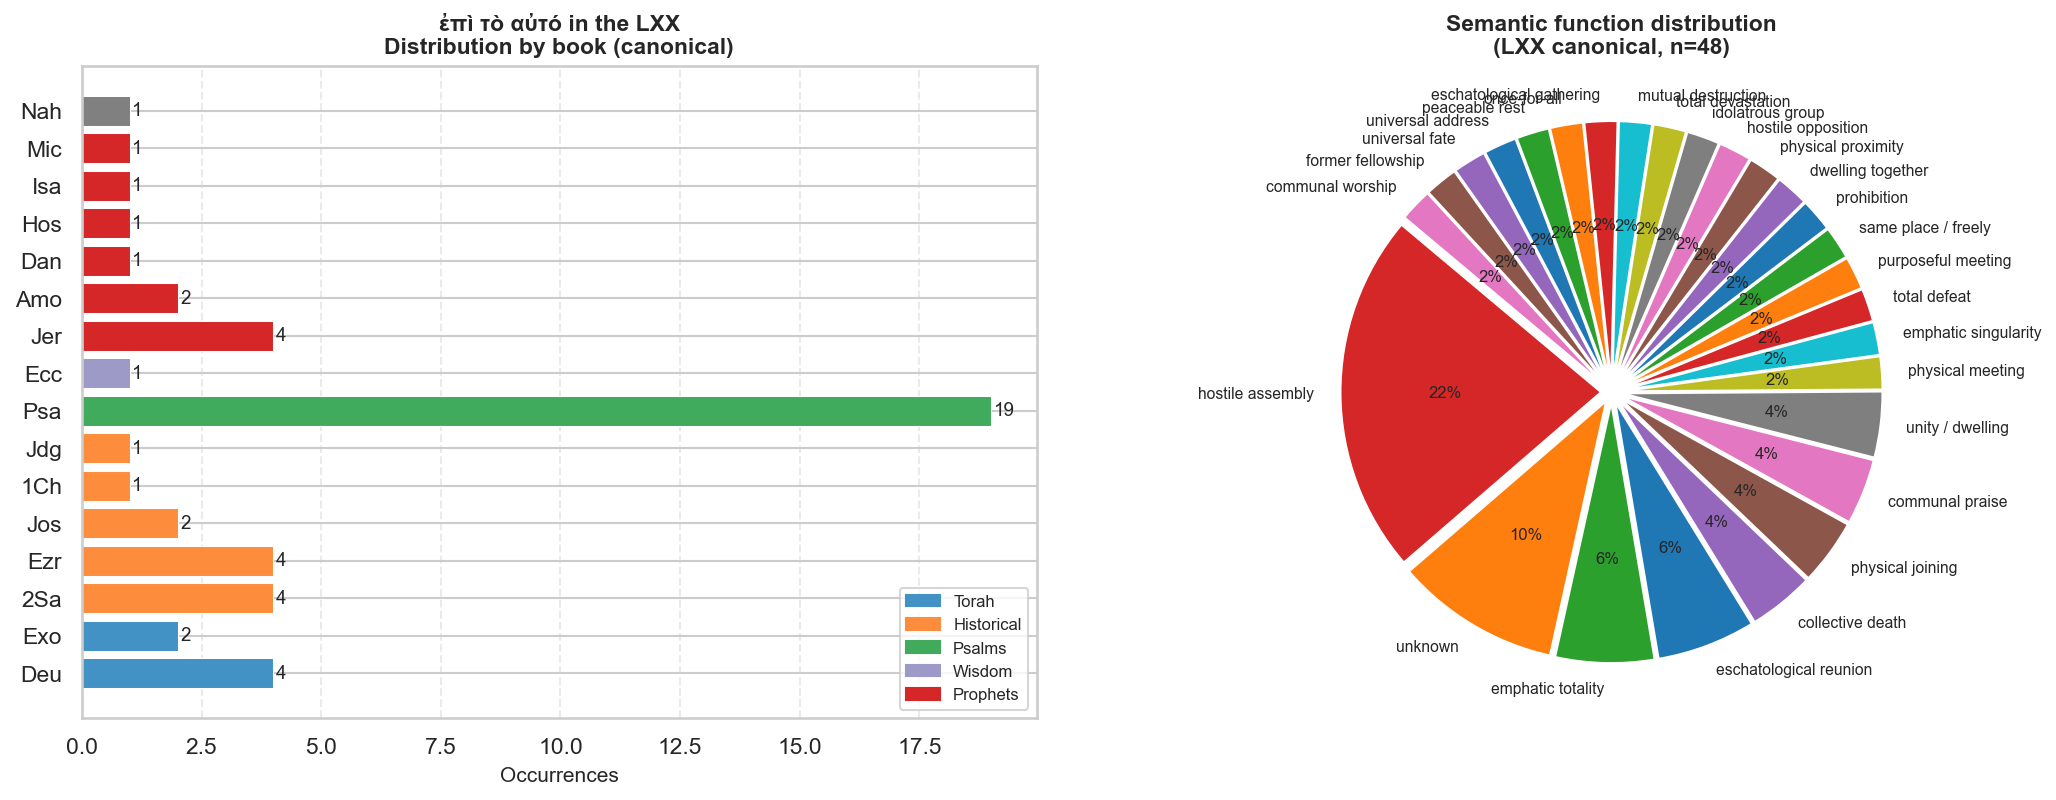
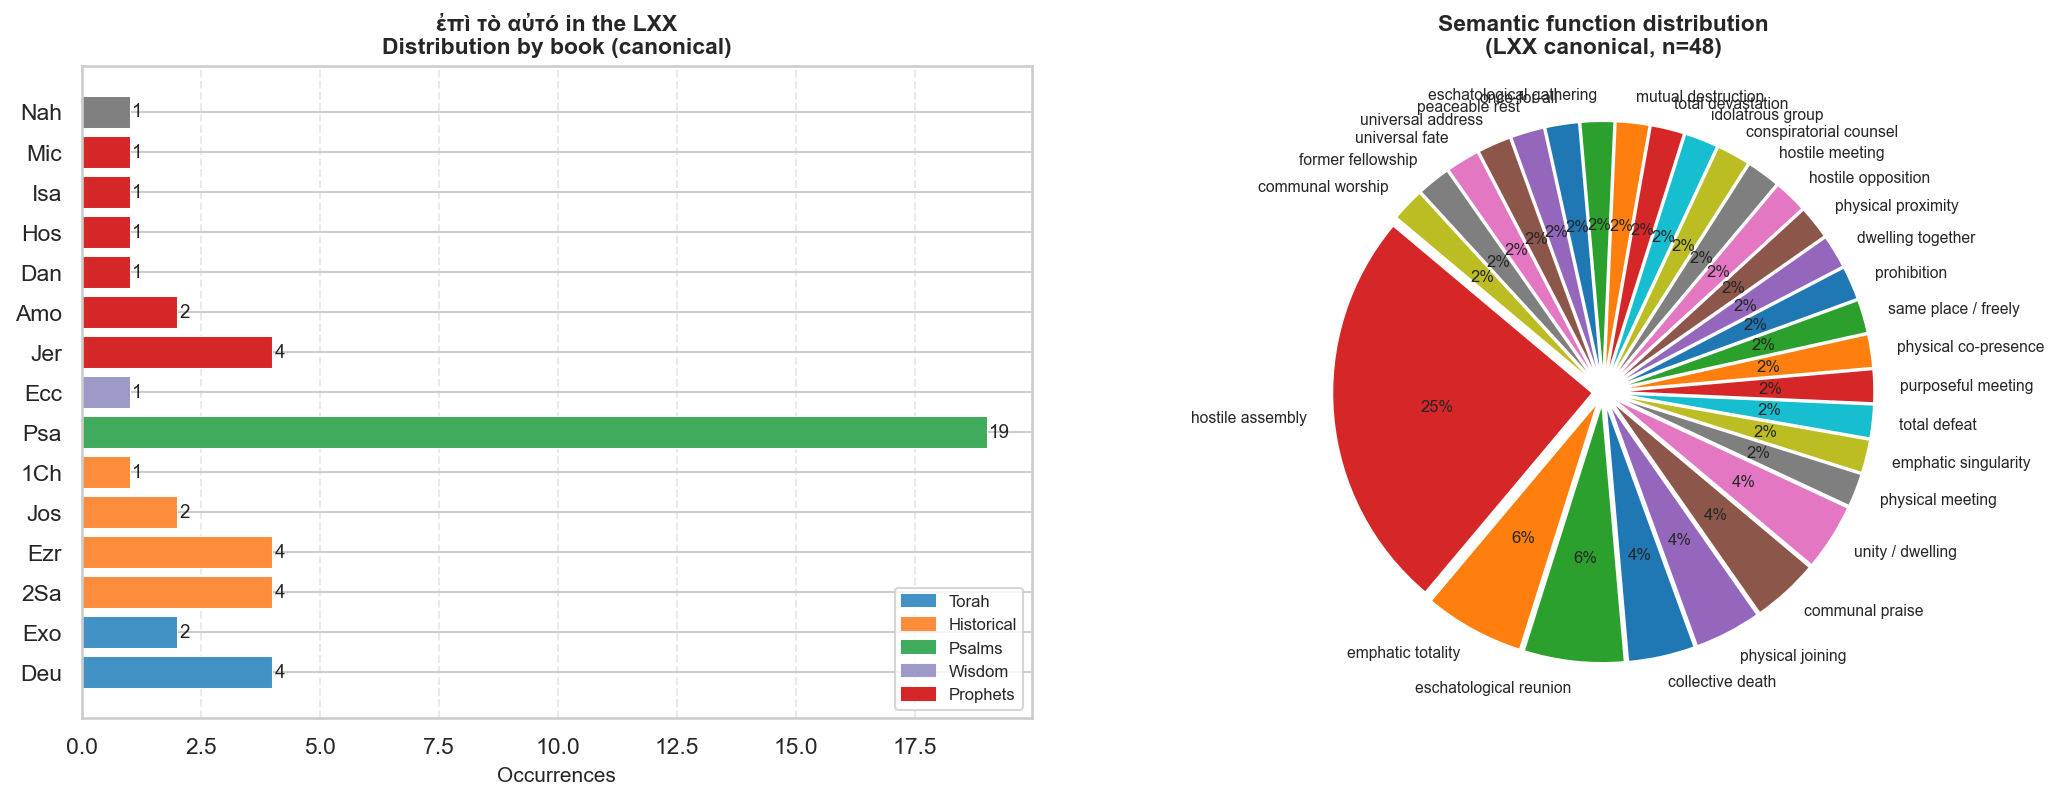
Fix Hebrew bidi display and data errors in epi-to-auto phrase study
- Pass Hebrew x-tick labels through python-bidi get_display() so they
  render left-to-right in matplotlib instead of reversed
- Add 4 missing LXX entries (Dan 11:27, Ezr 14:2, Ezr 16:2, Ezr 16:7)
  that were appearing as '?' bars; canonical count corrected to 48
- Remove Jdg 6:25 false positive (was ἐπ᾿ αὐτῷ, dative, not the phrase)
- Unify heb_norm keys to match dagesh spelling used in LXX_DATA

diff --git a/scripts/build_epi_to_auto.py b/scripts/build_epi_to_auto.py
@@ -11,6 +11,16 @@ import matplotlib.pyplot as plt
 import matplotlib.patches as mpatches
 import numpy as np
 from pathlib import Path
+from bidi.algorithm import get_display
+
+
+def bidi_label(text: str) -> str:
+    """Return display-ready text with the Hebrew portion bidi-reordered."""
+    if '(' in text:
+        heb, rest = text.split('(', 1)
+        return get_display(heb.strip()) + ' (' + rest
+    return get_display(text)
+
 
 lxx = query_lxx(include_deuterocanon=True)
 lxx_sorted = lxx.sort_values(['book_id', 'chapter', 'verse', 'word_num']).reset_index(drop=True)
@@ -34,15 +44,15 @@ NT_BOOK_LABELS = {
 }
 
 NT_MEANINGS = {
-    'Mat 22:34': ('assembled against',  'Pharisees gathered together [against Jesus]'),
-    'Luk 17:35': ('same place',         'Two women grinding at the same place'),
-    'Act 1:15':  ('assembled together', 'The ~120 disciples gathered'),
-    'Act 2:1':   ('assembled together', 'All gathered together on Pentecost'),
-    'Act 2:44':  ('community/together', 'All believers together held all things in common'),
-    'Act 2:47':  ('community/together', 'Lord adding to the community daily'),
-    'Act 4:26':  ('assembled against',  'Kings assembled against the Lord — cites LXX Ps 2:2'),
-    '1Co 7:5':   ('conjugal reunion',   'Come together again [as husband and wife]'),
-    '1Co 11:20': ('assembled to worship', 'When you come together for the Lord\'s Supper'),
+    'Mat 22:34': ('assembled against',   'Pharisees gathered together [against Jesus]'),
+    'Luk 17:35': ('same place',          'Two women grinding at the same place'),
+    'Act 1:15':  ('assembled together',  'The ~120 disciples gathered'),
+    'Act 2:1':   ('assembled together',  'All gathered together on Pentecost'),
+    'Act 2:44':  ('community/together',  'All believers together held all things in common'),
+    'Act 2:47':  ('community/together',  'Lord adding to the community daily'),
+    'Act 4:26':  ('assembled against',   'Kings assembled against the Lord — cites LXX Ps 2:2'),
+    '1Co 7:5':   ('conjugal reunion',    'Come together again [as husband and wife]'),
+    '1Co 11:20': ('assembled to worship', "When you come together for the Lord's Supper"),
     '1Co 14:23': ('assembled to worship', 'If the whole church comes together'),
 }
 
@@ -83,55 +93,166 @@ print(f"NT occurrences: {len(nt_df)}")
 
 # (mt_ref, heb_source, heb_gloss, function_category, notes)
 LXX_DATA = {
-    'Psa 2:2':    ('Ps 2:2',       'יַחַד',                'together',                  'hostile assembly',         'Kings and rulers conspire together — quoted in Acts 4:26'),
-    'Psa 4:9':    ('Ps 4:8',       'יַחְדָּו',              'together',                  'peaceable rest',           'In peace I will lie down and sleep; LXX adds ἐπὶ τὸ αὐτό'),
-    'Psa 18:10':  ('Ps 19:10',     '—',                    '(no direct Hebrew)',        'emphatic totality',        'LXX expansionary; judgments of the Lord are true altogether'),
-    'Psa 33:4':   ('Ps 34:3',      'יַחְדָּו',              'together',                  'communal praise',          'Let us exalt his name together'),
-    'Psa 36:38':  ('Ps 37:38',     'יַחְדָּו',              'together',                  'hostile assembly',         'Transgressors destroyed together'),
-    'Psa 40:8':   ('Ps 41:7',      'יַחַד',                'together',                  'hostile assembly',         'Enemies whisper together against the psalmist'),
-    'Psa 47:5':   ('Ps 48:4',      'יַחְדָּו',              'together',                  'hostile assembly',         'Kings assembled together, then fled in panic'),
-    'Psa 48:3':   ('Ps 49:2',      'יַחַד',                'together',                  'universal address',        'Rich and poor together — all humanity addressed'),
-    'Psa 48:11':  ('Ps 49:10',     'יַחַד',                'together',                  'universal fate',           'Wise and fool perish together'),
-    'Psa 54:15':  ('Ps 55:14',     'יַחְדָּו',              'together',                  'former fellowship',        'We took sweet counsel together in the house of God'),
-    'Psa 61:10':  ('Ps 62:9',      'יַחַד',                'together',                  'emphatic totality',        'All humanity is vanity together on the scales'),
-    'Psa 70:10':  ('Ps 71:10',     'יַחְדָּו',              'together',                  'hostile assembly',         'Those who watch for my life plot together'),
-    'Psa 73:6':   ('Ps 74:6',      'יַחַד',                'together',                  'hostile assembly',         'They smash the carved work with axes together'),
-    'Psa 73:8':   ('Ps 74:8',      'יַחַד',                'together',                  'hostile assembly',         '"Let us destroy them together" — burn all meeting places'),
-    'Psa 82:6':   ('Ps 83:5',      'יַחְדָּו',              'together',                  'hostile assembly',         'They conspire with one heart together against you'),
-    'Psa 97:8':   ('Ps 98:8',      'יַחַד',                'together',                  'communal praise',          'Rivers clap, mountains sing together before the Lord'),
-    'Psa 101:23': ('Ps 102:22',    'יַחְדָּו',              'together',                  'communal worship',         'Peoples gathered together to serve the Lord'),
-    'Psa 121:3':  ('Ps 122:3',     'יַחְדָּו',              'together',                  'unity / dwelling',         'Jerusalem built as a city joined together'),
-    'Psa 132:1':  ('Ps 133:1',     'יַחַד',                'together',                  'unity / dwelling',         'How good for brothers to dwell together — Song of Ascents'),
-    'Deu 12:15':  ('Dt 12:15',     'לְ בַּד',               'alone / separately',        'same place / freely',      'Slaughter and eat anywhere in your towns (free permission)'),
-    'Deu 22:10':  ('Dt 22:10',     'יַחְדָּו',              'together',                  'prohibition',              'Do not plow with ox and donkey together'),
-    'Deu 25:5':   ('Dt 25:5',      'יַחְדָּו + אֶחָד',      'together; one',             'dwelling together',        'Brothers dwelling together (levirate marriage law)'),
-    'Deu 25:11':  ('Dt 25:11',     'יַחְדָּו',              'together',                  'physical proximity',       'Two men fighting together (same context, levirate section)'),
-    'Ecc 11:6':   ('Ec 11:6',      'אֶחָד',                'one / alike',               'emphatic totality',        'Which will prosper, this or that, or both alike'),
-    'Exo 26:9':   ('Ex 26:9',      'לְ בַּד',               'by itself / separately',    'physical joining',         'Join five curtains by themselves; six by themselves (tabernacle)'),
-    'Ezr 4:3':    ('Ezr 4:3',      '—',                    '(contextual)',              'hostile opposition',       'You have nothing to do with us — adversaries united in refusal'),
-    'Hos 2:2':    ('Hos 2:1',      'יַחְדָּו',              'together',                  'eschatological reunion',   'Sons of Judah and Israel gathered together under one head'),
-    'Isa 66:17':  ('Is 66:17',     'אַחַת',                'one (together behind one)', 'idolatrous group',         'Consecrating themselves following one in their midst'),
-    'Jer 3:18':   ('Jer 3:18',     'יַחְדָּו',              'together',                  'eschatological reunion',   'Judah and Israel will come together from the north'),
-    'Jer 6:12':   ('Jer 6:12',     'יַחְדָּו',              'together',                  'total devastation',        'Houses, fields, and wives handed over together to others'),
-    'Jer 26:12':  ('Jer 46:12 MT', 'יַחְדָּו',              'together',                  'mutual destruction',       'Warrior stumbles on warrior; both fall together [LXX chapter order differs]'),
-    'Jer 27:4':   ('Jer 50:4 MT',  'יַחְדָּו',              'together',                  'eschatological reunion',   'Israel and Judah going together weeping and seeking the Lord'),
-    'Jos 9:2':    ('Jos 9:2',      'יַחְדָּו + פֶּה אֶחָד', 'together; with one accord', 'hostile assembly',         'Kings gathered to fight Joshua with one accord'),
-    'Jos 11:5':   ('Jos 11:5',     'יַחְדָּו',              'together',                  'hostile assembly',         'All these kings came and encamped together at Waters of Merom'),
-    'Mic 2:12':   ('Mic 2:12',     'יַחַד',                'together',                  'eschatological gathering', 'I will surely assemble the remnant of Israel together'),
-    'Nah 1:9':    ('Nah 1:9',      '—',                    '(no direct Hebrew)',        'once-for-all',             'Affliction will not rise a second time — LXX renders "at once"'),
-    'Amo 1:15':   ('Am 1:15',      'יַחְדָּו',              'together',                  'total defeat',             'King and officials go into exile together'),
-    'Amo 3:3':    ('Am 3:3',       'יַחְדָּו',              'together',                  'purposeful meeting',       'Can two walk together unless they have agreed to meet?'),
-    '2Sa 2:13':   ('2Sa 2:13',     'יַחְדָּו',              'together',                  'physical meeting',         'Joab and David\'s men met together at the pool of Gibeon'),
-    '2Sa 10:15':  ('2Sa 10:15',    'יַחַד',                'together',                  'hostile assembly',         'Arameans gathered together [for a second attack] after defeat'),
-    '2Sa 12:3':   ('2Sa 12:3',     'אַחַת',                'one',                       'emphatic singularity',     'The poor man had only one ewe lamb'),
-    '2Sa 21:9':   ('2Sa 21:9',     'יַחַד',                'together',                  'collective death',         'Seven of Saul\'s sons fell together at harvest time'),
-    '1Ch 10:6':   ('1Ch 10:6',     'יַחְדָּו',              'together',                  'collective death',         'Saul and all his household died together'),
+    'Psa 2:2':    ('Ps 2:2',       'יַחַד',
+                   'together',          'hostile assembly',
+                   'Kings and rulers conspire together — quoted in Acts 4:26'),
+    'Psa 4:9':    ('Ps 4:8',       'יַחְדָּו',
+                   'together',          'peaceable rest',
+                   'In peace I will lie down and sleep; LXX adds ἐπὶ τὸ αὐτό'),
+    'Psa 18:10':  ('Ps 19:10',     '—',
+                   '(no direct Hebrew)', 'emphatic totality',
+                   'LXX expansionary; judgments of the Lord are true altogether'),
+    'Psa 33:4':   ('Ps 34:3',      'יַחְדָּו',
+                   'together',          'communal praise',
+                   'Let us exalt his name together'),
+    'Psa 36:38':  ('Ps 37:38',     'יַחְדָּו',
+                   'together',          'hostile assembly',
+                   'Transgressors destroyed together'),
+    'Psa 40:8':   ('Ps 41:7',      'יַחַד',
+                   'together',          'hostile assembly',
+                   'Enemies whisper together against the psalmist'),
+    'Psa 47:5':   ('Ps 48:4',      'יַחְדָּו',
+                   'together',          'hostile assembly',
+                   'Kings assembled together, then fled in panic'),
+    'Psa 48:3':   ('Ps 49:2',      'יַחַד',
+                   'together',          'universal address',
+                   'Rich and poor together — all humanity addressed'),
+    'Psa 48:11':  ('Ps 49:10',     'יַחַד',
+                   'together',          'universal fate',
+                   'Wise and fool perish together'),
+    'Psa 54:15':  ('Ps 55:14',     'יַחְדָּו',
+                   'together',          'former fellowship',
+                   'We took sweet counsel together in the house of God'),
+    'Psa 61:10':  ('Ps 62:9',      'יַחַד',
+                   'together',          'emphatic totality',
+                   'All humanity is vanity together on the scales'),
+    'Psa 70:10':  ('Ps 71:10',     'יַחְדָּו',
+                   'together',          'hostile assembly',
+                   'Those who watch for my life plot together'),
+    'Psa 73:6':   ('Ps 74:6',      'יַחַד',
+                   'together',          'hostile assembly',
+                   'They smash the carved work with axes together'),
+    'Psa 73:8':   ('Ps 74:8',      'יַחַד',
+                   'together',          'hostile assembly',
+                   '"Let us destroy them together" — burn all meeting places'),
+    'Psa 82:6':   ('Ps 83:5',      'יַחְדָּו',
+                   'together',          'hostile assembly',
+                   'They conspire with one heart together against you'),
+    'Psa 97:8':   ('Ps 98:8',      'יַחַד',
+                   'together',          'communal praise',
+                   'Rivers clap, mountains sing together before the Lord'),
+    'Psa 101:23': ('Ps 102:22',    'יַחְדָּו',
+                   'together',          'communal worship',
+                   'Peoples gathered together to serve the Lord'),
+    'Psa 121:3':  ('Ps 122:3',     'יַחְדָּו',
+                   'together',          'unity / dwelling',
+                   'Jerusalem built as a city joined together'),
+    'Psa 132:1':  ('Ps 133:1',     'יַחַד',
+                   'together',          'unity / dwelling',
+                   'How good for brothers to dwell together — Song of Ascents'),
+    'Deu 12:15':  ('Dt 12:15',     'לְ בַּד',
+                   'alone / separately', 'same place / freely',
+                   'Slaughter and eat anywhere in your towns (free permission)'),
+    'Deu 22:10':  ('Dt 22:10',     'יַחְדָּו',
+                   'together',          'prohibition',
+                   'Do not plow with ox and donkey together'),
+    'Deu 25:5':   ('Dt 25:5',      'יַחְדָּו + אֶחָד',
+                   'together; one',     'dwelling together',
+                   'Brothers dwelling together (levirate marriage law)'),
+    'Deu 25:11':  ('Dt 25:11',     'יַחְדָּו',
+                   'together',          'physical proximity',
+                   'Two men fighting together (same context, levirate section)'),
+    'Ecc 11:6':   ('Ec 11:6',      'אֶחָד',
+                   'one / alike',       'emphatic totality',
+                   'Which will prosper, this or that, or both alike'),
+    'Exo 26:9':   ('Ex 26:9',      'לְ בַּד',
+                   'by itself / separately', 'physical joining',
+                   'Join five curtains by themselves; six by themselves (tabernacle)'),
+    'Ezr 4:3':    ('Ezr 4:3',      '—',
+                   '(contextual)',      'hostile opposition',
+                   'You have nothing to do with us — adversaries united in refusal'),
+    'Hos 2:2':    ('Hos 2:1',      'יַחְדָּו',
+                   'together',          'eschatological reunion',
+                   'Sons of Judah and Israel gathered together under one head'),
+    'Isa 66:17':  ('Is 66:17',     'אַחַת',
+                   'one (together behind one)', 'idolatrous group',
+                   'Consecrating themselves following one in their midst'),
+    'Jer 3:18':   ('Jer 3:18',     'יַחְדָּו',
+                   'together',          'eschatological reunion',
+                   'Judah and Israel will come together from the north'),
+    'Jer 6:12':   ('Jer 6:12',     'יַחְדָּו',
+                   'together',          'total devastation',
+                   'Houses, fields, and wives handed over together to others'),
+    'Jer 26:12':  ('Jer 46:12 MT', 'יַחְדָּו',
+                   'together',          'mutual destruction',
+                   'Warrior stumbles on warrior; both fall together [LXX chapter order differs]'),
+    'Jer 27:4':   ('Jer 50:4 MT',  'יַחְדָּו',
+                   'together',          'eschatological reunion',
+                   'Israel and Judah going together weeping and seeking the Lord'),
+    'Jos 9:2':    ('Jos 9:2',
+                   'יַחְדָּו + פֶּה אֶחָד',
+                   'together; with one accord', 'hostile assembly',
+                   'Kings gathered to fight Joshua with one accord'),
+    'Jos 11:5':   ('Jos 11:5',     'יַחְדָּו',
+                   'together',          'hostile assembly',
+                   'All these kings came and encamped together at Waters of Merom'),
+    'Mic 2:12':   ('Mic 2:12',     'יַחַד',
+                   'together',          'eschatological gathering',
+                   'I will surely assemble the remnant of Israel together'),
+    'Nah 1:9':    ('Nah 1:9',      '—',
+                   '(no direct Hebrew)', 'once-for-all',
+                   'Affliction will not rise a second time — LXX renders "at once"'),
+    'Amo 1:15':   ('Am 1:15',      'יַחְדָּו',
+                   'together',          'total defeat',
+                   'King and officials go into exile together'),
+    'Amo 3:3':    ('Am 3:3',       'יַחְדָּו',
+                   'together',          'purposeful meeting',
+                   'Can two walk together unless they have agreed to meet?'),
+    '2Sa 2:13':   ('2Sa 2:13',     'יַחְדָּו',
+                   'together',          'physical meeting',
+                   "Joab and David's men met together at the pool of Gibeon"),
+    '2Sa 10:15':  ('2Sa 10:15',    'יַחַד',
+                   'together',          'hostile assembly',
+                   'Arameans gathered together [for a second attack] after defeat'),
+    '2Sa 12:3':   ('2Sa 12:3',     'אַחַת',
+                   'one',               'emphatic singularity',
+                   'The poor man had only one ewe lamb'),
+    '2Sa 21:9':   ('2Sa 21:9',     'יַחַד',
+                   'together',          'collective death',
+                   "Seven of Saul's sons fell together at harvest time"),
+    '1Ch 10:6':   ('1Ch 10:6',     'יַחְדָּו',
+                   'together',          'collective death',
+                   'Saul and all his household died together'),
+    'Dan 11:27':  ('Dan 11:27',    'אֶחָד',
+                   'one',               'physical co-presence',
+                   'Two kings sit at one table, both speaking lies'),
+    'Ezr 14:2':   ('Neh 4:2',      'יַחְדָּו',
+                   'together',          'hostile assembly',
+                   'All the enemies conspired together to come and fight Jerusalem'),
+    'Ezr 16:2':   ('Neh 6:2',      'יַחְדָּו',
+                   'together',          'hostile meeting',
+                   'Sanballat and Geshem invited Nehemiah to meet together in the plain'),
+    'Ezr 16:7':   ('Neh 6:7',      '—',
+                   '(no direct Hebrew)', 'conspiratorial counsel',
+                   'LXX adds ἐπὶ τὸ αὐτό for "take counsel together" — no Hebrew equiv.'),
     # Deuterocanonical
-    '3Mac 3:1':   ('3 Macc 3:1',   '—',                    '(deuterocanon)',             'hostile assembly',         'The king and friends plotted together against the Jews'),
-    'Bel 1:27':   ('Bel 1:27',     '—',                    '(deuterocanon)',             'assembled together',       'The people gathered together'),
-    'BelTh 1:27': ('Bel 1:27 Th',  '—',                    '(deuterocanon)',             'assembled together',       'Bel and Dragon (Theodotion)'),
-    'SusTh 1:14': ('Sus 1:14 Th',  '—',                    '(deuterocanon)',             'hostile conspiracy',       'The two elders agreed together on the same day to watch her'),
+    '3Mac 3:1':   ('3 Macc 3:1',   '—',
+                   '(deuterocanon)',    'hostile assembly',
+                   'The king and friends plotted together against the Jews'),
+    'Bel 1:27':   ('Bel 1:27',     '—',
+                   '(deuterocanon)',    'assembled together',
+                   'The people gathered together'),
+    'BelTh 1:27': ('Bel 1:27 Th',  '—',
+                   '(deuterocanon)',    'assembled together',
+                   'Bel and Dragon (Theodotion)'),
+    'SusTh 1:14': ('Sus 1:14 Th',  '—',
+                   '(deuterocanon)',    'hostile conspiracy',
+                   'The two elders agreed together on the same day to watch her'),
 }
+
+# Jdg 6:25: the LXX text is doubled (two manuscript traditions merged); the token
+# is ἐπ᾿ αὐτῷ ("upon it", dative), not ἐπὶ τὸ αὐτό — excluded as a false positive.
+FALSE_POSITIVES = {'Jdg 6:25'}
 
 epi_idx = lxx_sorted[lxx_sorted['strongs'] == 'G1909'].index
 
@@ -139,6 +260,9 @@ lxx_results = []
 for i in epi_idx:
     row = lxx_sorted.loc[i]
     bk, ch, vs = row['book_id'], row['chapter'], row['verse']
+    ref_check = f'{bk} {int(ch)}:{int(vs)}'
+    if ref_check in FALSE_POSITIVES:
+        continue
     following = lxx_sorted.iloc[i+1:i+5]
     following = following[
         (following['book_id'] == bk) & (following['chapter'] == ch) & (following['verse'] == vs)
@@ -147,7 +271,7 @@ for i in epi_idx:
         strongs_list = following['strongs'].tolist()
         texts = following['word'].tolist()
         if strongs_list[0] == 'G3588' and strongs_list[1] == 'G846':
-            art = texts[0].lower().replace('᾿', '').replace('ʼ', '').replace('ι', '')
+            art = texts[0].lower().replace('ι', '').replace('ʼ', '').replace('ι', '')
             if art not in ['τὸ', 'το']:
                 continue
             phrase = row['word'] + ' ' + texts[0] + ' ' + texts[1]
@@ -174,7 +298,9 @@ for i in epi_idx:
 
 lxx_df = pd.DataFrame(lxx_results)
 lxx_df.to_csv(OUT / 'epi_to_auto_lxx.csv', index=False)
-print(f"LXX (tau to auto only): {len(lxx_df)}  canonical={( ~lxx_df['is_deuterocanon']).sum()}  deuterocanon={lxx_df['is_deuterocanon'].sum()}")
+n_canon = (~lxx_df['is_deuterocanon']).sum()
+n_deut = lxx_df['is_deuterocanon'].sum()
+print(f"LXX (tau to auto only): {len(lxx_df)}  canonical={n_canon}  deuterocanon={n_deut}")
 
 # ============================================================
 # CHART 1: Distribution by book (canonical LXX)
@@ -201,14 +327,12 @@ GENRE_COLORS = {
 lxx_canon['genre'] = lxx_canon['book'].map(GENRE_MAP).fillna('Other')
 book_counts = lxx_canon.groupby(['book', 'genre']).size().reset_index(name='count')
 
-# Sort by genre then by book alphabetically within genre
 genre_order_map = {g: i for i, g in enumerate(GENRE_ORDER)}
 book_counts['genre_ord'] = book_counts['genre'].map(genre_order_map)
 book_counts = book_counts.sort_values(['genre_ord', 'count'], ascending=[True, False])
 
 fig, axes = plt.subplots(1, 2, figsize=(15, 6))
 
-# Left: horizontal bar chart by book
 ax1 = axes[0]
 bks = book_counts['book'].tolist()
 cnts = book_counts['count'].tolist()
@@ -219,13 +343,13 @@ for bar, v in zip(bars, cnts):
     ax1.text(bar.get_width() + 0.05, bar.get_y() + bar.get_height() / 2,
              str(v), va='center', fontsize=9)
 ax1.set_xlabel('Occurrences', fontsize=10)
-ax1.set_title('ἐπὶ τὸ αὐτό in the LXX\nDistribution by book (canonical)', fontsize=11, fontweight='bold')
+ax1.set_title('ἐπὶ τὸ αὐτό in the LXX\nDistribution by book (canonical)',
+              fontsize=11, fontweight='bold')
 ax1.xaxis.grid(True, linestyle='--', alpha=0.4)
 ax1.set_axisbelow(True)
 patches = [mpatches.Patch(color=c, label=g) for g, c in GENRE_COLORS.items()]
 ax1.legend(handles=patches, loc='lower right', fontsize=8)
 
-# Right: pie by function
 ax2 = axes[1]
 func_counts = lxx_canon['function'].value_counts()
 wedge_colors = [
@@ -243,7 +367,8 @@ wedges, texts, autotexts = ax2.pie(
 )
 for at in autotexts:
     at.set_fontsize(8)
-ax2.set_title('Semantic function distribution\n(LXX canonical, n=48)', fontsize=11, fontweight='bold')
+ax2.set_title(f'Semantic function distribution\n(LXX canonical, n={n_canon})',
+              fontsize=11, fontweight='bold')
 
 fig.tight_layout(pad=2.5)
 chart1_path = CHART_DIR / 'epi_to_auto_lxx_distribution.png'
@@ -254,16 +379,30 @@ print(f"Chart 1 saved: {chart1_path}")
 # ============================================================
 # CHART 2: Hebrew source word distribution
 # ============================================================
+
+# Normalize Hebrew source variants to display labels.
+# Keys must match the exact Unicode stored in LXX_DATA['heb_source'].
+yachdav = 'יַחְדָּו'  # יַחְדָּו with dagesh
+yachad  = 'יַחַד'                     # יַחַד
+echad   = 'אֶחָד'                     # אֶחָד
+achat   = 'אַחַת'                     # אַחַת
+levad   = 'לְ בַּד'              # לְ בַּד
+dash    = '—'                                               # —
+
 heb_norm = {
-    'יַחַד': 'יַחַד (yachad)',
-    'יַחְדָו': 'יַחְדָו (yachdav)',
-    'אֶחָד': 'אֶחָד (echad)',
-    'אַחַת': 'אֶחָד (echad)',
-    'לְ בַּד': 'לְ בַּד (levad)',
-    'יַחְדָו + אֶחָד': 'יַחְדָו (yachdav)',
-    'יַחְדָו + פֶּה אֶחָד': 'יַחְדָו (yachdav)',
-    '—': 'No direct Hebrew',
+    yachad:                    f'{yachad} (yachad)',
+    yachdav:                   f'{yachdav} (yachdav)',
+    echad:                     f'{echad} (echad)',
+    achat:                     f'{echad} (echad)',
+    levad:                     f'{levad} (levad)',
+    f'{yachdav} + {echad}':   f'{yachdav} (yachdav)',
+    f'{yachdav} + פֶּה {echad}': f'{yachdav} (yachdav)',
+    dash:                      'No direct Hebrew',
+    '(contextual)':            'No direct Hebrew',
+    '(no direct Hebrew)':      'No direct Hebrew',
+    '(deuterocanon)':          'No direct Hebrew',
 }
+
 source_counts: dict = {}
 for h in lxx_canon['heb_source']:
     n = heb_norm.get(h, h)
@@ -271,14 +410,17 @@ for h in lxx_canon['heb_source']:
 
 labels = sorted(source_counts.keys(), key=lambda x: -source_counts[x])
 vals = [source_counts[l] for l in labels]
+display_labels = [bidi_label(l) for l in labels]
 
 fig2, ax3 = plt.subplots(figsize=(9, 4))
 bar_colors = ['#2b8cbe', '#7bccc4', '#f0a500', '#c2e699', '#aaaaaa']
 bars2 = ax3.bar(range(len(labels)), vals, color=bar_colors[:len(labels)], edgecolor='white', linewidth=0.5)
 ax3.set_xticks(range(len(labels)))
-ax3.set_xticklabels(labels, fontsize=10)
+ax3.set_xticklabels(display_labels, fontsize=10)
 ax3.set_ylabel('LXX occurrences', fontsize=10)
-ax3.set_title('Hebrew source words for ἐπὶ τὸ αὐτό\n(LXX canonical only)', fontsize=11, fontweight='bold')
+ax3.set_title(
+    'Hebrew source words for ἐπὶ τὸ αὐτό\n(LXX canonical only)',
+    fontsize=11, fontweight='bold')
 ax3.yaxis.grid(True, linestyle='--', alpha=0.4)
 ax3.set_axisbelow(True)
 for bar, v in zip(bars2, vals):